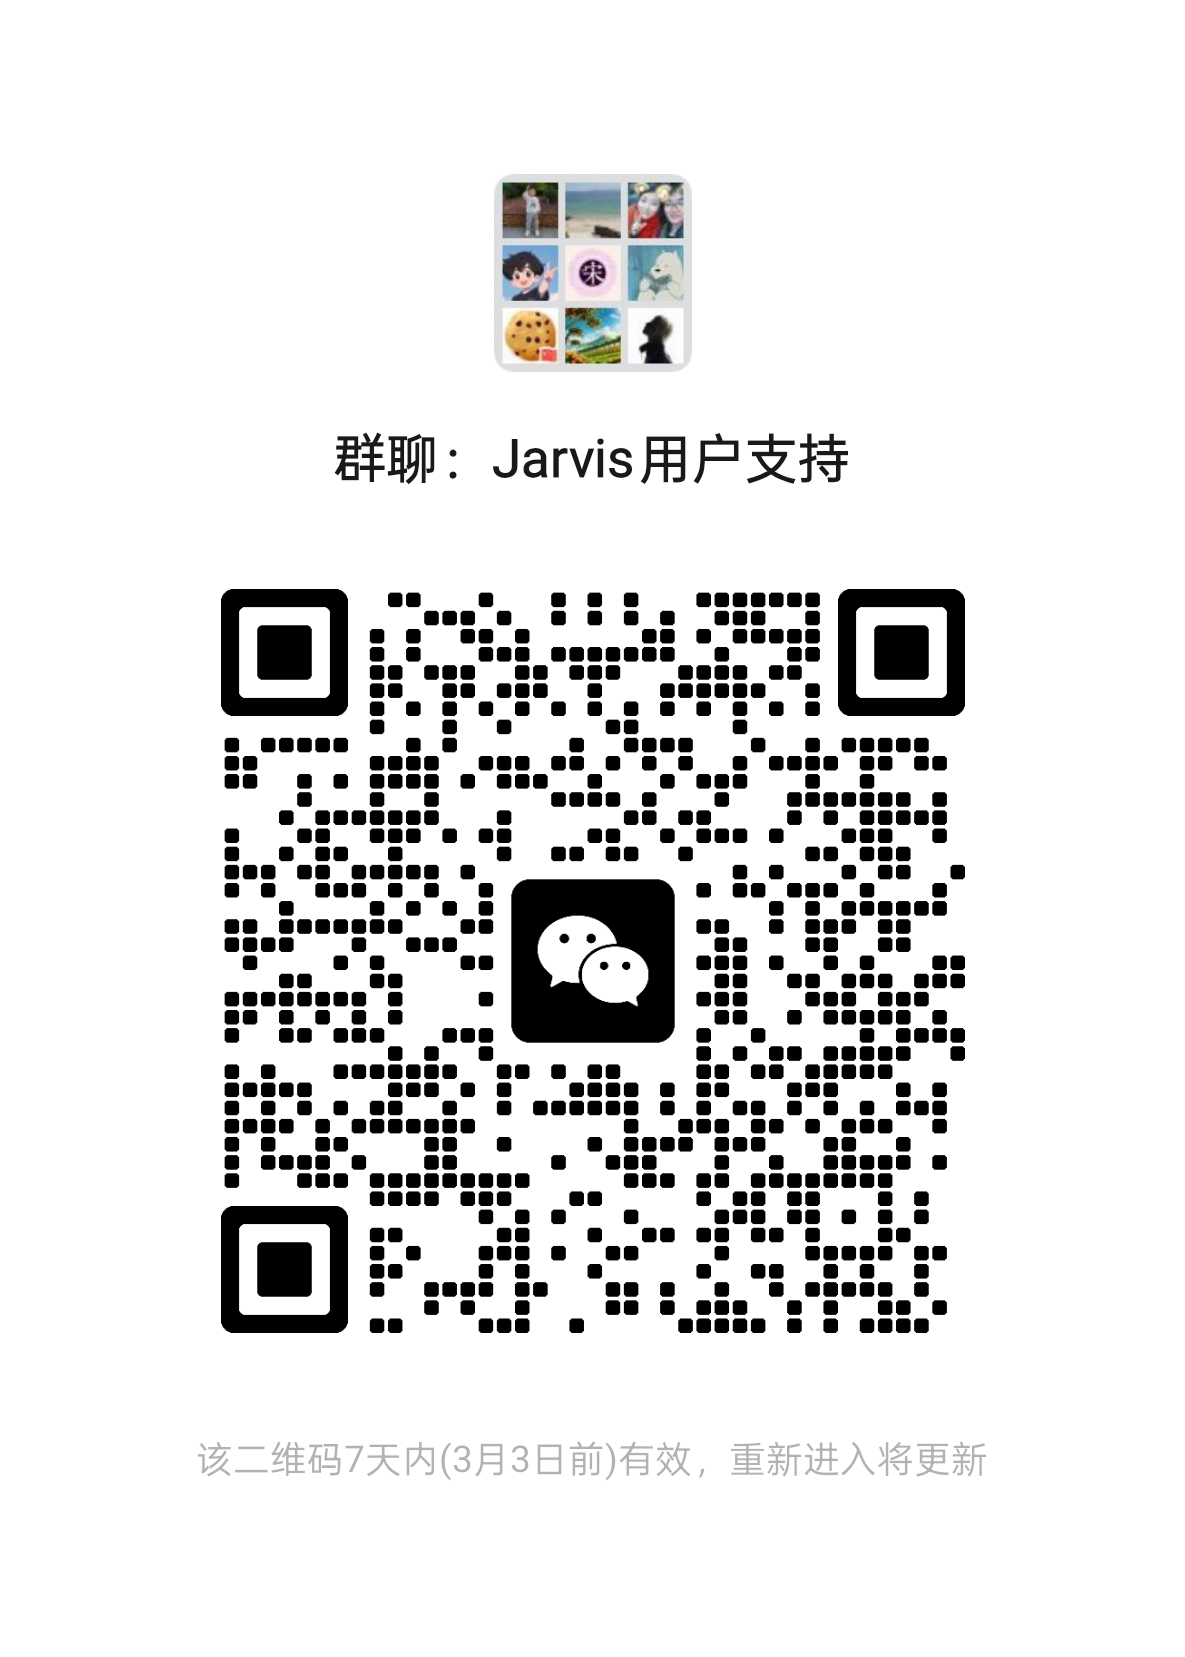
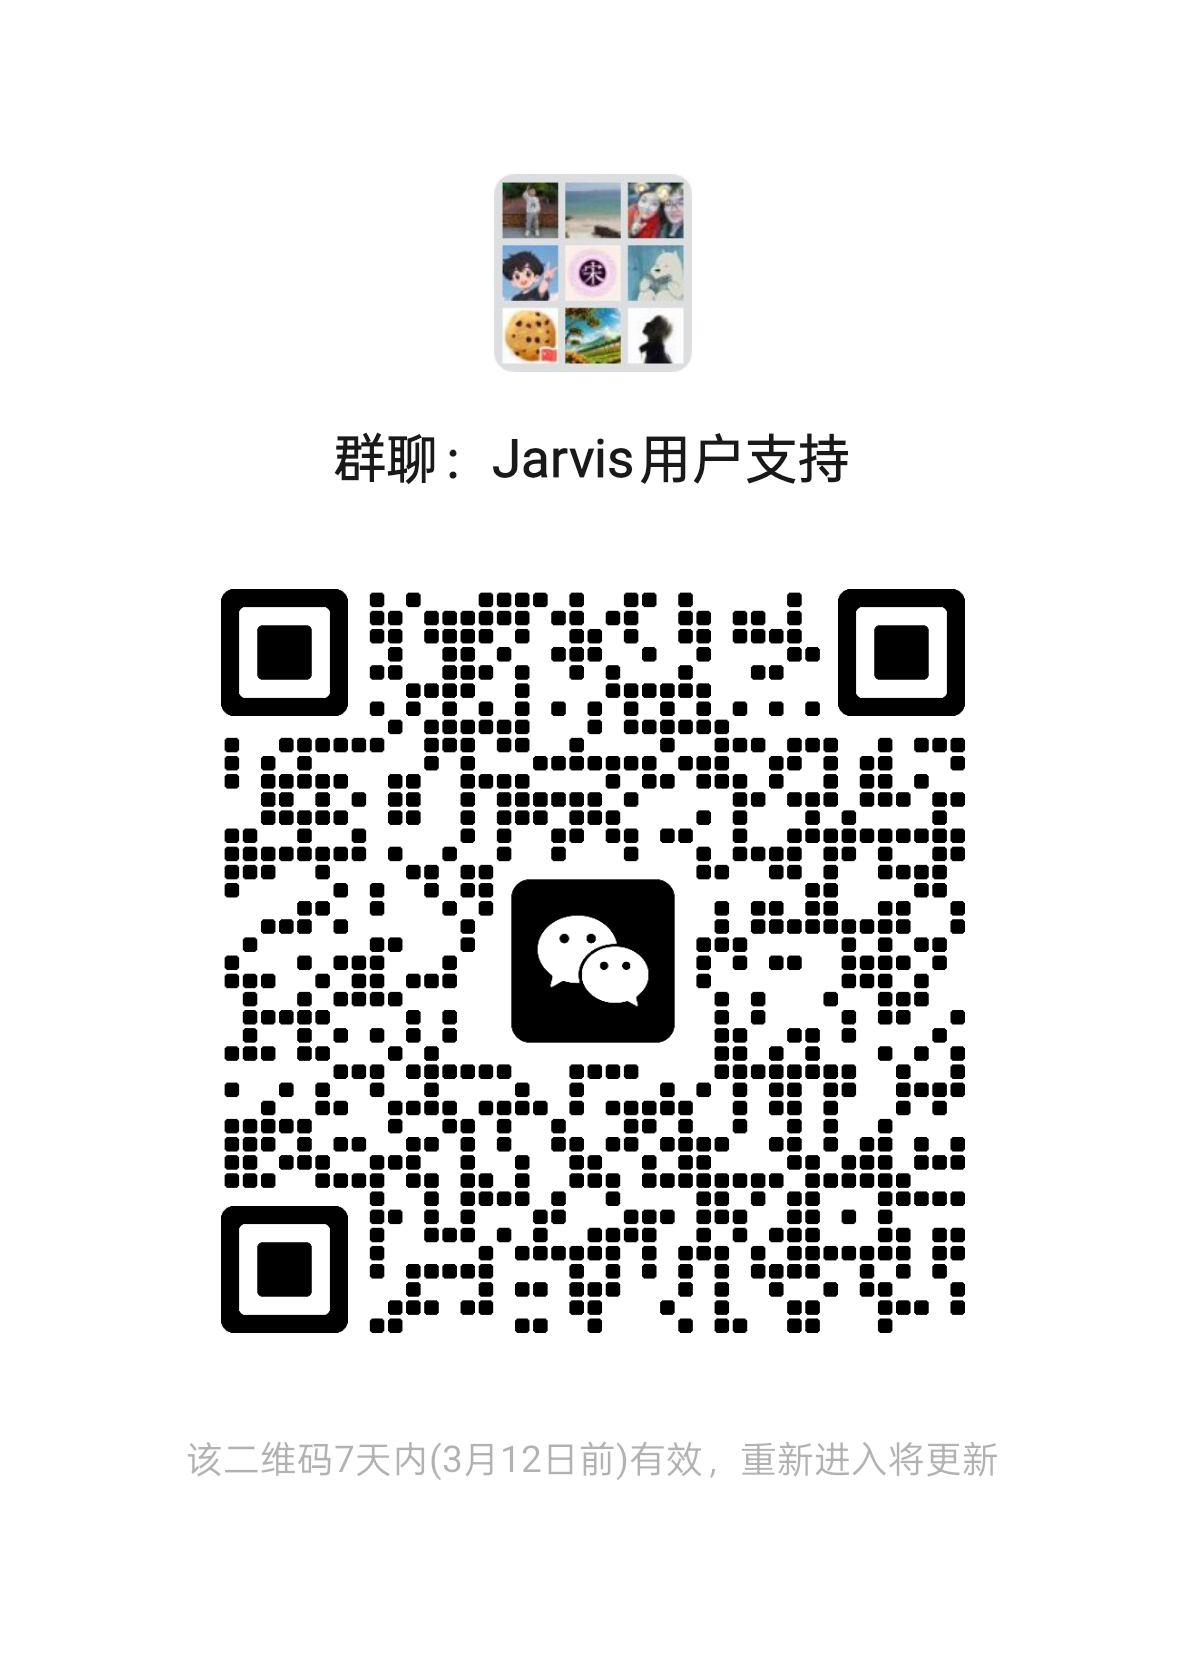
docs(release): 更新发布说明v2.0.18 添加自动规则选择和会话状态优化
新增v2.0.18版本发布说明，包含以下主要变更：
- 智能推荐规则选择功能，根据任务描述自动匹配合适规则
- 修复会话名称生成状态显示问题，添加加载提示
- 优化规则系统架构，重构规则加载机制
- 移除冗余代码，统一输出格式接口
- 完善内置规则描述信息，保持格式一致性
- 更新微信二维码图片资源

diff --git a/ReleaseNote.md b/ReleaseNote.md
@@ -1,3 +1,37 @@
+### Release Note - v2.0.18 2026-03-05
+
+#### **🚀 新功能**
+
+- **🎯 自动规则选择**
+  - **智能推荐**：根据任务描述自动选择合适的规则，无需手动指定
+  - **场景标签**：新用户快速上手，复杂任务自动匹配最佳规范
+  - **效果**：使用更便捷，系统更智能
+
+#### **📌 修复**
+
+- **🔧 会话名称生成状态**
+  - **问题修复**：为会话名称生成添加加载状态提示，提升用户体验
+  - **效果**：操作反馈更明确，避免长时间等待的困惑
+
+#### **🔧 优化与重构**
+
+- **🎯 规则系统智能化**
+  - **功能增强**：重构规则加载机制，提供更直观的规则信息展示
+  - **场景标签**：激活规则时显示详细路径和描述，便于查看和管理
+  - **效果**：规则管理更高效，信息展示更清晰
+
+- **🎯 代码精简优化**
+  - **架构简化**：移除冗余prompt索引，统一输出格式接口
+  - **效果**：代码结构更清晰，维护成本降低
+
+#### **📚 文档更新**
+
+- **📖 规则描述完善**
+  - **内容统一**：更新内置规则描述信息，保持格式一致
+  - **效果**：规则用途更清晰，便于理解和使用
+
+---
+
 ### Release Note - v2.0.17 2026-03-01
 
 #### **🚀 新功能**
